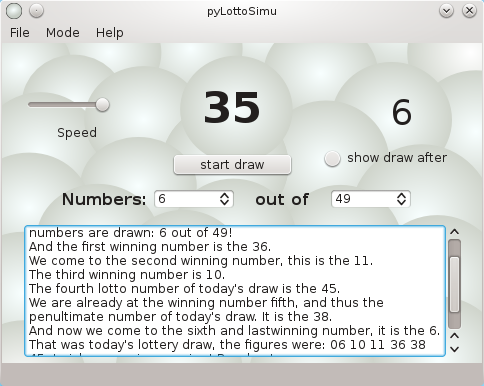
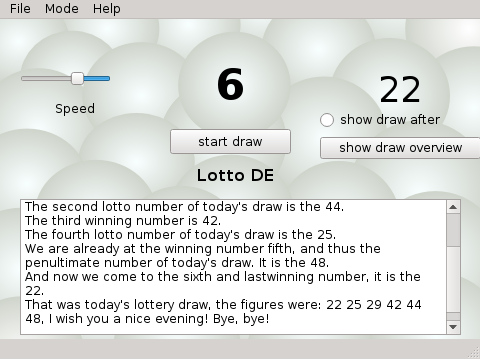
screenshot

diff --git a/README.md b/README.md
@@ -37,7 +37,7 @@ translate your language file: lotto1_xx.ts, and produce the .ts translation file
 lrelease complete.pro
 ```
 
-![Image](misc/pyLottoSimu_screenshot_en.png "simulate a lotto draw.")
+![Image](misc/pyLottoSimu_screenshot_en.png "screenshot")
 
 Installieren
 -------------
@@ -68,6 +68,7 @@ Die Zahlen auswählen und mit 'Start' die Simulation starten.
 Dabei kann mit dem Schieber oben links die Geschwindigkeit verändert werden.
 
 Auf der Webseite gibt es [Videos](http://markush.cwsurf.de/joomla_17/index.php/python/pylottosimu/8-lotto-generator-und-simulator) zu dem Programm.
+![Image](misc/pyLottoSimu_screenshot_de.png "screenshot (german)")
 
 License
 -------
